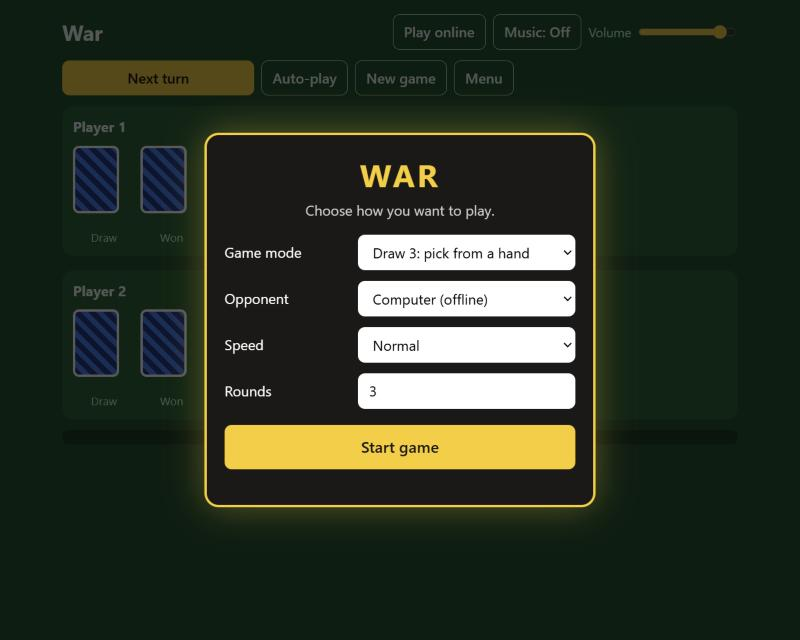
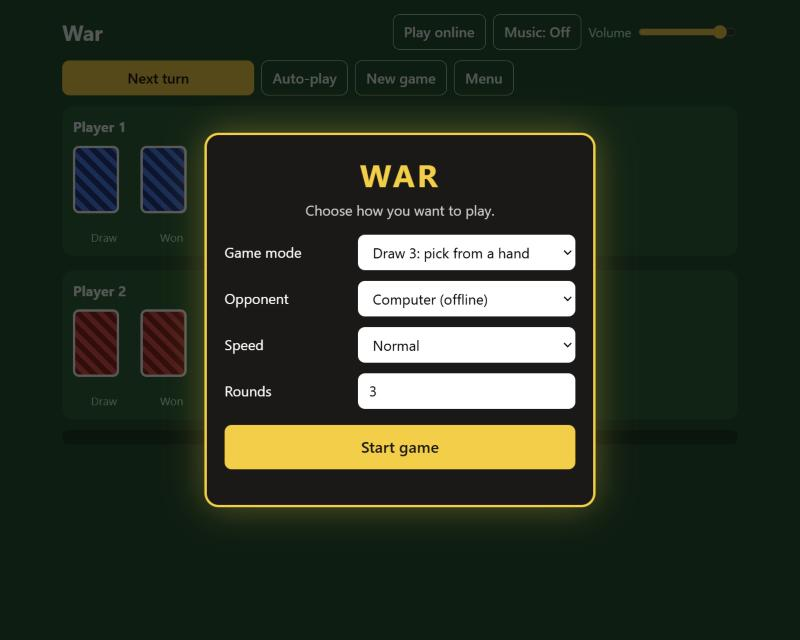
Give Player 2 red card backs
Player 2's piles, face-down cards, hand and dealt cards are red; Player 1
stays blue. README screenshots retaken to match.

Changed region(s): [[0.0938, 0.4688, 0.25, 0.5938]]

diff --git a/war.html b/war.html
@@ -7,7 +7,7 @@
 <style>
   :root {
     --bg: #14532d; --panel: #166534; --ink: #f0fdf4; --muted: #bbf7d0;
-    --card: #ffffff; --card-ink: #111827; --red: #b91c1c; --back: #1e3a8a;
+    --card: #ffffff; --card-ink: #111827; --red: #b91c1c; --back: #1e3a8a; --back2: #3b82f6;
     --accent: #facc15; --accent-ink: #1c1917; --duel: #dc2626;
   }
   * { box-sizing: border-box; }
@@ -42,7 +42,7 @@
   .stack {
     width: 52px; height: 76px; border-radius: 7px; margin: 0 18px 18px 0;
     display: flex; align-items: center; justify-content: center;
-    background: repeating-linear-gradient(45deg, var(--back) 0 6px, #3b82f6 6px 12px);
+    background: repeating-linear-gradient(45deg, var(--back) 0 6px, var(--back2) 6px 12px);
     border: 3px solid var(--card); transition: box-shadow .15s;
   }
   .stack span {
@@ -61,9 +61,10 @@
   }
   .card.red { color: var(--red); }
   .card.down {
-    background: repeating-linear-gradient(45deg, var(--back) 0 6px, #3b82f6 6px 12px);
+    background: repeating-linear-gradient(45deg, var(--back) 0 6px, var(--back2) 6px 12px);
     border: 3px solid var(--card);
   }
+  #p1, #d1, .p2back { --back: #991b1b; --back2: #ef4444; }   /* Player 2's card backs are red */
   .card.best { outline: 3px solid var(--accent); }
   .card.deal { animation: deal .14s ease-out; }
   @keyframes deal { from { transform: translateX(-24px); opacity: 0; } }
@@ -1071,7 +1072,7 @@ function flyToHand(i, key, ms) {
   if (!target) { arriving[i].delete(key); renderHands(); return; }
   const from = stackEl(i, "draw").getBoundingClientRect(), to = target.getBoundingClientRect();
   const el = document.createElement("div");
-  el.className = "card down flyer";
+  el.className = "card down flyer" + (i === 1 ? " p2back" : "");
   el.style.cssText = `position:fixed; left:${from.left}px; top:${from.top}px; z-index:50; pointer-events:none`;
   document.body.append(el);
   pulse(stackEl(i, "draw"));
@@ -1160,7 +1161,7 @@ function drawPiles() {
       el.innerHTML = `<span>${n}</span>`;
       const layers = [];
       for (let k = 1; k <= Math.floor(n / 3); k++)
-        layers.push(`${k}px ${k}px 0 ${k % 2 ? "#1e3a8a" : "#dbeafe"}`);
+        layers.push(`${k}px ${k}px 0 ${k % 2 ? (i ? "#991b1b" : "#1e3a8a") : (i ? "#fee2e2" : "#dbeafe")}`);
       el.style.boxShadow = layers.join(",") || "none";
     }
     $("p" + i).querySelector(".info").textContent =
@@ -1805,6 +1806,7 @@ function shuffleAndDeal() {
       const i = n % 2;
       later(() => {
         const el = backCard(0);
+        if (i === 1) el.classList.add("p2back");          // Player 2's cards are red
         const from = $("dealer").getBoundingClientRect(), to = stackEl(i, "draw").getBoundingClientRect();
         const flight = `translate(${to.left + to.width / 2 - from.left}px, ${to.top + to.height / 2 - from.top}px) scale(.85)`;
         el.animate([{ transform: "none" }, { transform: flight }], { duration: DEAL_FLY, easing: "ease-in" });
